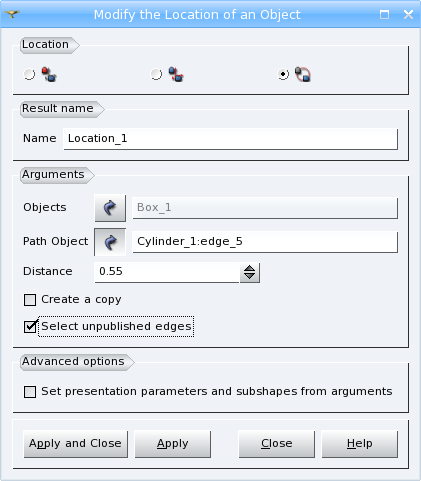
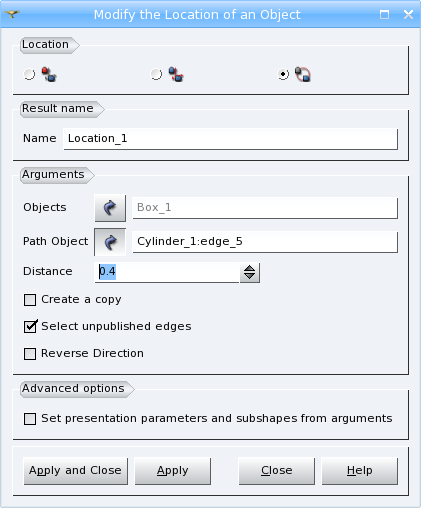
0019827: EDF 736 GEOM : Duplication of a object along an elliptic path

diff --git a/src/GEOMGUI/GEOM_msg_en.ts b/src/GEOMGUI/GEOM_msg_en.ts
@@ -1304,6 +1304,10 @@ Please, select face, shell or solid and try again</translation>
             <source>GEOM_REVERSE</source>
             <translation>Reverse</translation>
         </message>
+	<message>
+            <source>GEOM_REVERSE_DIRECTION</source>
+            <translation>Reverse Direction</translation>
+        </message>
         <message>
             <source>GEOM_REVERSE_PLANE</source>
             <translation>Reverse the plane normal</translation>

diff --git a/src/GEOM_SWIG/geompyDC.py b/src/GEOM_SWIG/geompyDC.py
@@ -2247,12 +2247,14 @@ class geompyDC(GEOM._objref_GEOM_Gen):
         #  @param  theObject The object to be displaced.
         #  @param  thePath Wire or Edge along that the object will be translated.
 	#  @param  theDistance progress of Path (0 = start location, 1 = end of path location).
+	#  @param  theCopy is to create a copy objects if true.
+	#  @param  theReverse - 0 for usual direction, 1 to reverse path direction.
         #  @return New GEOM_Object, containing the displaced shape.
         #
         #  @ref tui_modify_location "Example"
-        def PositionAlongPath(self,theObject, thePath, theDistance, theCopy):
+        def PositionAlongPath(self,theObject, thePath, theDistance, theCopy, theReverse):
             # Example: see GEOM_TestAll.py
-            anObj = self.TrsfOp.PositionAlongPath(theObject, thePath, theDistance, theCopy)
+            anObj = self.TrsfOp.PositionAlongPath(theObject, thePath, theDistance, theCopy, theReverse)
             RaiseIfFailed("PositionAlongPath", self.TrsfOp)
             return anObj
 

diff --git a/src/GEOM_I/GEOM_ITransformOperations_i.cc b/src/GEOM_I/GEOM_ITransformOperations_i.cc
@@ -997,7 +997,8 @@ GEOM::GEOM_Object_ptr GEOM_ITransformOperations_i::PositionAlongPath
                                              (GEOM::GEOM_Object_ptr theObject,
 					      GEOM::GEOM_Object_ptr thePath,
 					      CORBA::Double         theDistance,
-					      CORBA::Boolean        theCopy)
+					      CORBA::Boolean        theCopy,
+					      CORBA::Boolean        theReverse)
 {
   GEOM::GEOM_Object_var aGEOMObject;
 
@@ -1021,7 +1022,7 @@ GEOM::GEOM_Object_ptr GEOM_ITransformOperations_i::PositionAlongPath
 
   //Perform the position
   Handle(GEOM_Object) anObject =
-    GetOperations()->PositionAlongPath(aBasicObject, aPathObject, theDistance, theCopy);
+    GetOperations()->PositionAlongPath(aBasicObject, aPathObject, theDistance, theCopy, theReverse);
   if (!GetOperations()->IsDone() || anObject.IsNull())
     return aGEOMObject._retn();
 

diff --git a/src/GEOM_I_Superv/GEOM_Superv_i.cc b/src/GEOM_I_Superv/GEOM_Superv_i.cc
@@ -1826,12 +1826,13 @@ GEOM::GEOM_Object_ptr GEOM_Superv_i::PositionShapeCopy (GEOM::GEOM_Object_ptr th
 GEOM::GEOM_Object_ptr GEOM_Superv_i::PositionAlongPath (GEOM::GEOM_Object_ptr theObject,
 							GEOM::GEOM_Object_ptr thePath,
 							CORBA::Double         theDistance,
-							CORBA::Boolean        theCopy)
+							CORBA::Boolean        theCopy,
+							CORBA::Boolean        theReverse)
 {
   beginService( " GEOM_Superv_i::PositionAlongPath" );
   MESSAGE("GEOM_Superv_i::PositionAlongPath");
   getTransfOp();
-  GEOM::GEOM_Object_ptr anObj = myTransfOp->PositionAlongPath(theObject, thePath, theDistance, theCopy);
+  GEOM::GEOM_Object_ptr anObj = myTransfOp->PositionAlongPath(theObject, thePath, theDistance, theCopy, theReverse);
   endService( " GEOM_Superv_i::PositionAlongPath" );
   return anObj;
 }

diff --git a/src/GEOM_SWIG/GEOM_TestAll.py b/src/GEOM_SWIG/GEOM_TestAll.py
@@ -207,7 +207,7 @@ def TestAll (geompy, math):
   MirrorAxis  = geompy.MakeMirrorByAxis(Box, Line1)  #
   MirrorPnt   = geompy.MakeMirrorByPoint(Box, p200)  #
   Position    = geompy.MakePosition(Box, cs1, cs2)   #(3 GEOM_Object_ptr)->GEOM_Object_ptr
-  Position2   = geompy.PositionAlongPath(Box, Arc, 0.5, 1)  #(2 GEOM_Object_ptr, 1 Double, 1 Bool)->GEOM_Object_ptr
+  Position2   = geompy.PositionAlongPath(Box, Arc, 0.5, 1, 0)  #(2 GEOM_Object_ptr, 1 Double, 2 Bool)->GEOM_Object_ptr
   Offset      = geompy.MakeOffset(Box, 10.)          #(GEOM_Object_ptr, Double)->GEOM_Object_ptr
   Orientation = geompy.ChangeOrientation(Box)
 

diff --git a/src/TransformationGUI/TransformationGUI_PositionDlg.h b/src/TransformationGUI/TransformationGUI_PositionDlg.h
@@ -28,7 +28,7 @@
 
 #include <GEOMBase_Skeleton.h>
 
-class DlgRef_4Sel1Spin2Check;
+class DlgRef_4Sel1Spin3Check;
 
 //=================================================================================
 // class    : TransformationGUI_PositionDlg
@@ -64,7 +64,7 @@ private:
   // to initialize the first selection field with a selected object on the dialog creation
   bool                               myInitial;
 
-  DlgRef_4Sel1Spin2Check*            Group1;
+  DlgRef_4Sel1Spin3Check*            Group1;
     
 private slots:
   void                               ClickOnOk();

diff --git a/src/DlgRef/DlgRef.h b/src/DlgRef/DlgRef.h
@@ -747,6 +747,22 @@ public:
 };
 
 //////////////////////////////////////////
+// DlgRef_4Sel1Spin2Check
+//////////////////////////////////////////
+
+#include "ui_DlgRef_4Sel1Spin3Check_QTD.h"
+
+class DLGREF_EXPORT DlgRef_4Sel1Spin3Check : public QWidget, 
+                                             public Ui::DlgRef_4Sel1Spin3Check_QTD
+{
+  Q_OBJECT
+
+public:
+  DlgRef_4Sel1Spin3Check( QWidget* = 0, Qt::WindowFlags = 0 );
+  ~DlgRef_4Sel1Spin3Check();
+};
+
+//////////////////////////////////////////
 // DlgRef_6Sel
 //////////////////////////////////////////
 
